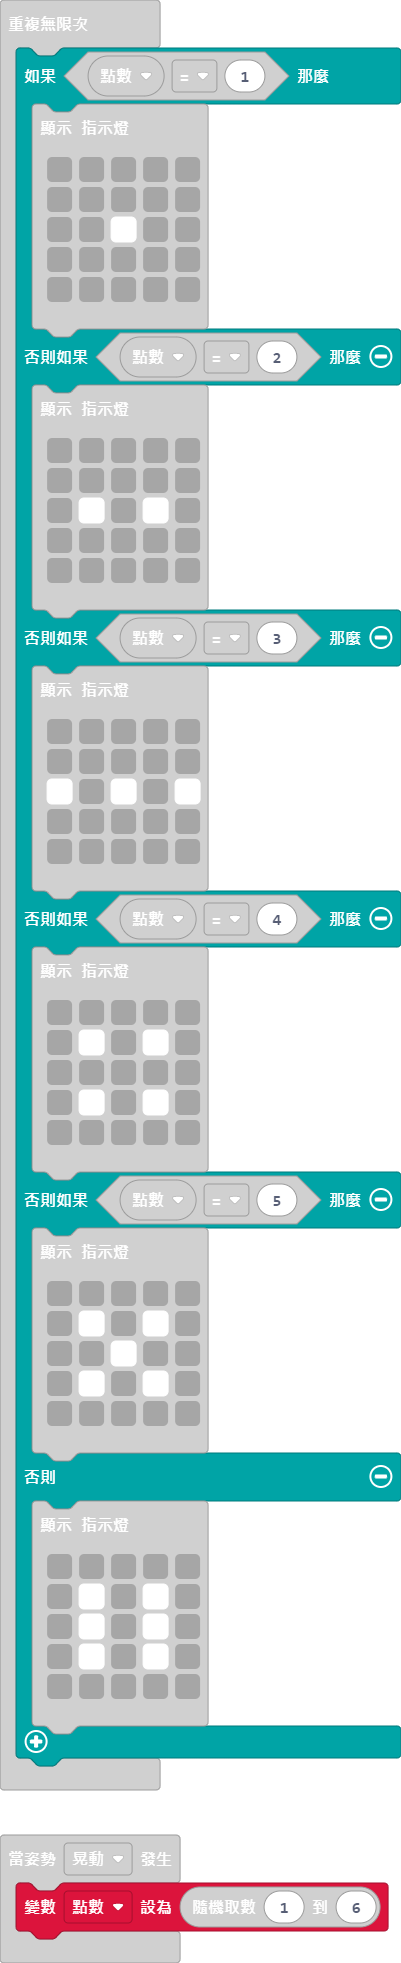
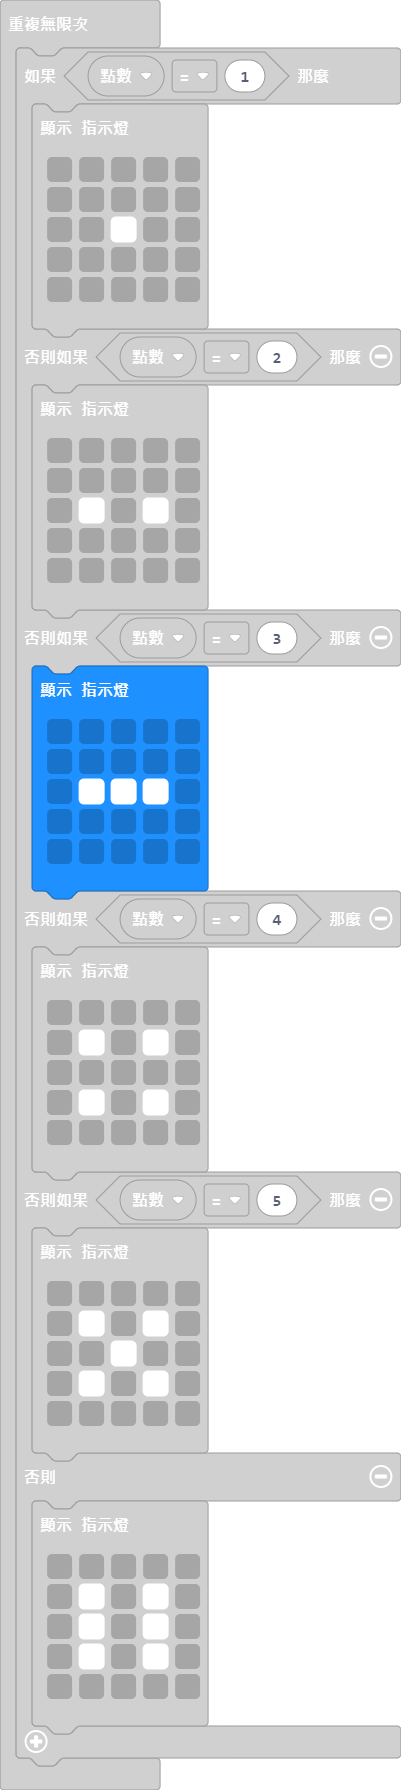
更新 main.blocks, main.ts

diff --git a/main.ts b/main.ts
@@ -23,7 +23,7 @@ basic.forever(function () {
         basic.showLeds(`
             . . . . .
             . . . . .
-            # . # . #
+            . # # # .
             . . . . .
             . . . . .
             `)
